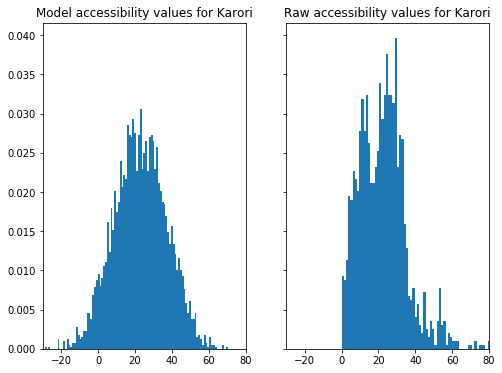
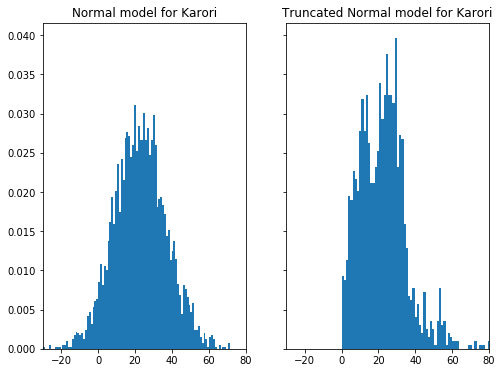
Corrected title in figure. Details on hierarchical modelling in progress.

diff --git a/_posts/2019-03-12-Modelling-accessibility-by-suburb.md b/_posts/2019-03-12-Modelling-accessibility-by-suburb.md
@@ -27,13 +27,13 @@ The best reason for trying our hand at statistical modelling comes from the ente
 </p>
 <br>
 
-In his book, Lambert goes on to elaborate the gains acheived from employing a Bayesian approach to statistical inference. Our analysis into accessibility by suburb does benefit from a Bayesian approach but I've chosen to use it anayway since I'm now completely avowed to _The Bayesian Way_ (_Bayes-Do_?).
+In his book, Lambert goes on to elaborate the gains acheived from employing a Bayesian approach to statistical inference. Our analysis into accessibility by suburb doesn't explicitly benefit from a Bayesian approach but I've chosen to use it anayway since I'm now completely avowed to _The Bayesian Way_ (_Bayes-do_?).
 
 
 ## Models as an approximation of reality
 The core component of statistical inference is a _statistical model_ - often shortened to just _model_. Common models formalise the data generation process  by quantifying the relationhip between inputs and outcomes. For example, linear regression models quanitfy the relationship between a set of user-defined inputs and the possible outcomes given those inputs.
 
-The model we're using in this post are much simpler: we're considering the probability space of the outcomes - with a particular interest in the summary statistics: mean, $\mu$, and standard deviation, $\sigma$. As we'll see later on, we choose a particular mathematical form to represent the probability space of accessibilities within a suburb. The specific parameters of the model, $\mu$ and $\sigma$, are calculated using the observed accessibility data.
+The model we're using in this post are much simpler: we're considering the probability space of the outcomes - with a particular interest in the summary statistics: mean, $\mu$, and standard deviation, $\sigma$. As we'll [see later on](#truncated-normal-model-for-better-fit), we choose a particular mathematical form to represent the probability space of accessibilities within a suburb. The specific parameters of the model, $\mu$ and $\sigma$, are calculated using the observed accessibility data.
 
 ## Model with care
 It's worth noting that not all data-driven questions benefit from statistical modelling. Models can be complicated and difficult to explain to others - even technically-oriented peers. In view of this, some data evangelists advocate a simpler analysis process. Kat Greenbrook highlights how the [modelling aspect can be left out for many business analytics questions](https://www.linkedin.com/pulse/data-stories-glue-analytics-cycle-kat-greenbrook/).
@@ -48,7 +48,7 @@ It's worth noting that not all data-driven questions benefit from statistical mo
 </p>
 <br>
 
-Data anlysis alone can be very powerful. Exploratory analyses can unearth many useful insights that can be followed through with business actions. As people who harness data for a purpose, we must constantly evaluate whether the added complexity of the model layer is adding utility and significant insight.
+Data anlysis alone is powerful; exploratory analyses can unearth useful insights that can be followed through with business actions. As people who harness data for a purpose, we must constantly evaluate whether the added complexity of the model layer is adding significant utility and insight.
 
 > Modelling should never be undertaken if there is not a clear use case for the output.
 
@@ -56,7 +56,6 @@ Data anlysis alone can be very powerful. Exploratory analyses can unearth many u
   - <a href="https://www.linkedin.com/pulse/data-stories-glue-analytics-cycle-kat-greenbrook/">Kat Greenbrook</a>
 </p>
 <br>
-
 
 ## Model for a reason
 Now that we have been cautioned to think before we model, we can identify how models would be useful to understand playground accessibility in Wellington.
@@ -67,7 +66,7 @@ Comparisons can be done with single point values alone. But, robust comparisons 
 
 
 ## Models for decision making
-Adding a model for comparing suburbs has further utility - they can be used for explicit or qualitative decision making. Exolicit decisions are appropriate in a business context since executives want to know the best option. This series is more focused on exploration and building a qualitative picture guided by metrics and analyses.
+Adding a model for comparing suburbs has further utility - they can be used for explicit or qualitative decision making. Explicit decisions are appropriate in a business context since executives want to know the best option. This series is more focused on exploration and building a qualitative picture guided by metrics and analyses.
 
 > Can we summarise the playground accessibility characteristic for a given suburb?
 
@@ -147,7 +146,6 @@ The same filters used to plot the accessibility heatmap within a suburb can be u
 ![](../images/2019-03-12-Modelling-accessibility-by-suburb/output_18_0.png)
 
 
-
 # Modelling of accessibility in a single suburb
 Once we have the accessibility values by suburb, we can start thinking of how we might model them. From the previous figure, the suburban accessibility distributions have some distinctive features:
 - Values are all positive
@@ -197,14 +195,20 @@ The figure below shows the posterior predictive samples generated from a Normal 
 
 
 # Building a collective Bayesian model
+Modelling every suburb on it's own is doable but more useful is a model that does this, and models the average across all suburbs. This type of model is commonly known as a _hierarchcal model_. Hierarchy comes from the intuitive ordering of the models. Here, we have an overall _city_ level model and many _suburban_ level models.
 
+Going through the details of a hierarchical model is beyond the scope of this post but there is a [great introduction with Python and Pystan by Chris Fonnesbeck](https://mc-stan.org/users/documentation/case-studies/radon.html). Note that a _multi-level model_ is synonymous with a _hierarchical model_.
 
-## Results for $\mu$
-![](../images/2019-03-12-Modelling-accessibility-by-suburb/output_43_0.png)
+We get two types of posterior distributions from the hierarchical model:
+- $\mu_{s}$ and $\sigma_{s}$ for each suburb.
+- A single $\mu_{c}$ and $\sigma{c}$ for all suburbs (i.e. city level)
 
+It is worth noting that only the top 80% of suburbs (in terms of node count) have been included in the model. This was mainly to get the model to run reasonably quickly.
 
-## Results for $\sigma$
-![](../images/2019-03-12-Modelling-accessibility-by-suburb/output_44_0.png)
+## Results for $\mu$ and $\sigma$
+| $\mu$  | $\sigma$ |
+| :----------: | :--------------------: |
+|![](../images/2019-03-12-Modelling-accessibility-by-suburb/output_43_0.png) |![](../images/2019-03-12-Modelling-accessibility-by-suburb/output_44_0.png) |
 
 
 ## Quadrant visualisation
